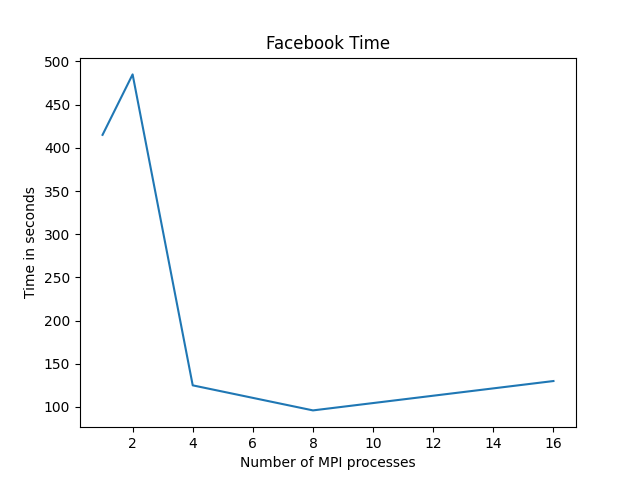
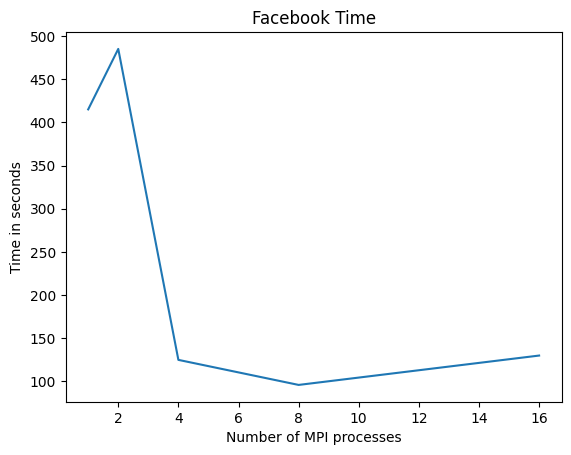
The speedup script now outputs all images needed in 1 run

diff --git a/speedup.py b/speedup.py
@@ -26,14 +26,19 @@ def calc_speedup(times: Mapping[int, Union[int, float]]) -> Dict[int, float]:
 
 
 def plot(filename: str, x_axis: str, data: Mapping[int, Union[int, float]]):
-    pyplot.plot(
-        data.keys(),
-        data.values(),
-    )
+    # Clear the previous run
+    pyplot.clf()
+    pyplot.cla()
+
+    # Plot the input data
+    pyplot.plot(data.keys(), data.values())
     pyplot.title(filename)
     pyplot.ylabel(x_axis)
     pyplot.xlabel("Number of MPI processes")
-    pyplot.savefig(filename)
+    pyplot.savefig(filename, bbox_inches="tight")
 
 
+plot("Facebook Time", "Time in seconds", facebook)
 plot("Twitter Time", "Time in seconds", twitter)
+plot("Facebook Speedup", "Speedup relative to serial", calc_speedup(facebook))
+plot("Twitter Speedup", "Speedup relative to serial", calc_speedup(twitter))
